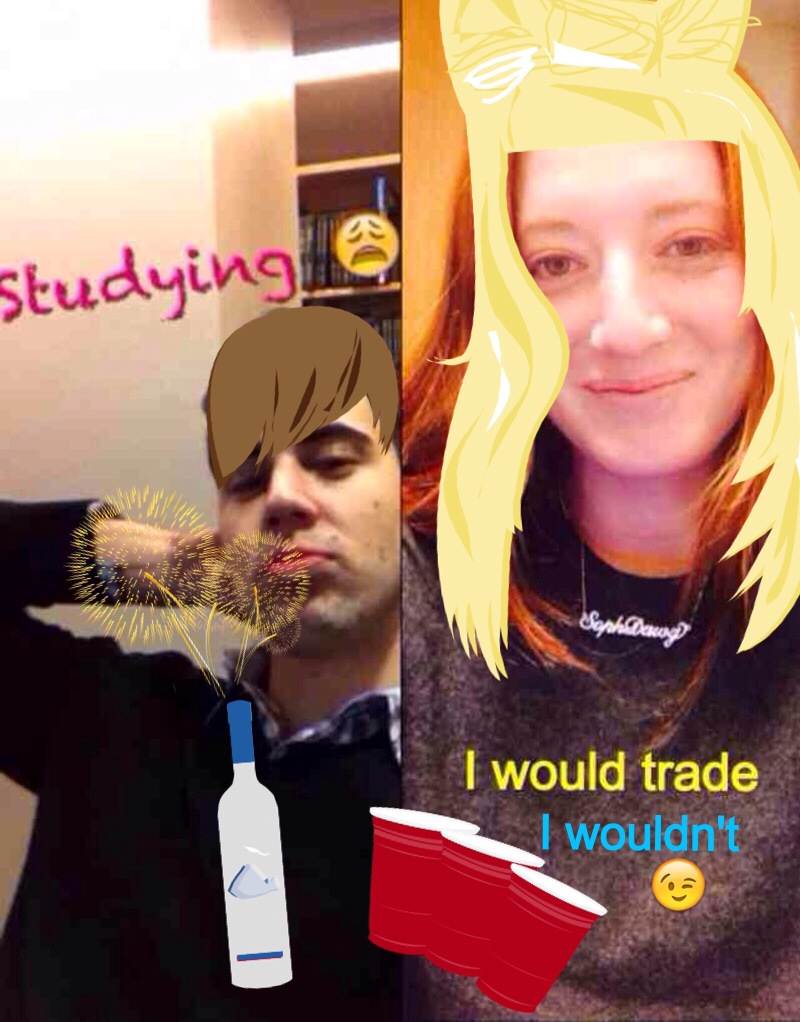
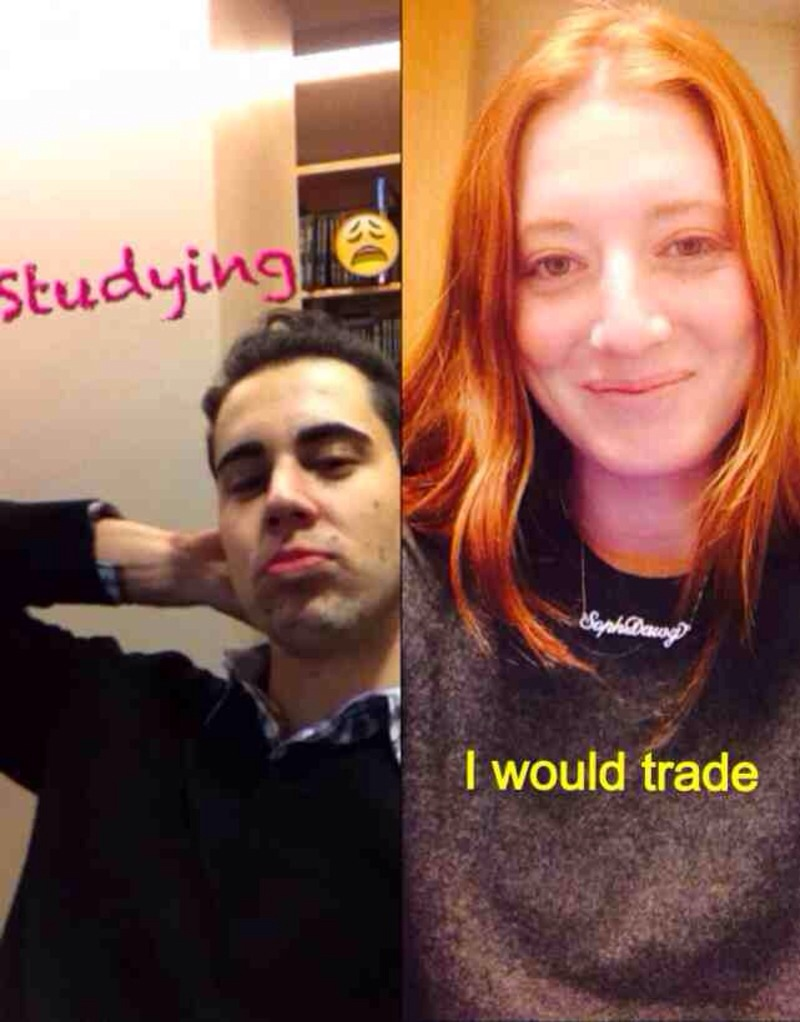
New images

diff --git a/index.html b/index.html
@@ -29,7 +29,7 @@
           <img src="https://dl.dropbox.com/s/ehe7atxi8of1u62/pic_zag.jpg">
         </div>
         <div data-index="2" class="iphone-screen">
-          <img src="images/slide1-1.jpg">
+          <img src="images/slide1-2.jpg">
         </div>
         <div data-index="3" class="iphone-screen">
           <img src="images/slide2-2.JPG">
@@ -82,7 +82,7 @@
           <p>Enhance your pictures</p>
           <p class="smaller">Make every minute one that counts with stickers, collages, and your own unique edits. Work, school, and the bus have never looked this good!</p>
           <div class="mobile-image">
-            <img src="images/slide1-1.jpg">
+            <img src="images/slide1-2.jpg">
           </div>
         </div>
         

diff --git a/javascripts/main.js b/javascripts/main.js
@@ -25,6 +25,12 @@ $(document).ready(function(){
 
   });
 
+  $('.slideshow-container').each(function(){
+    var slides = $(this).find('.slideshow-image');
+    console.log($(slides[0]).css('margin-left', '-200px'));
+    //setInterval(function(){slides[0]}, 1000);
+  });
+
   $(window).scroll(function(){
     var distances = [];
     $('.slide').each(function(idx){
